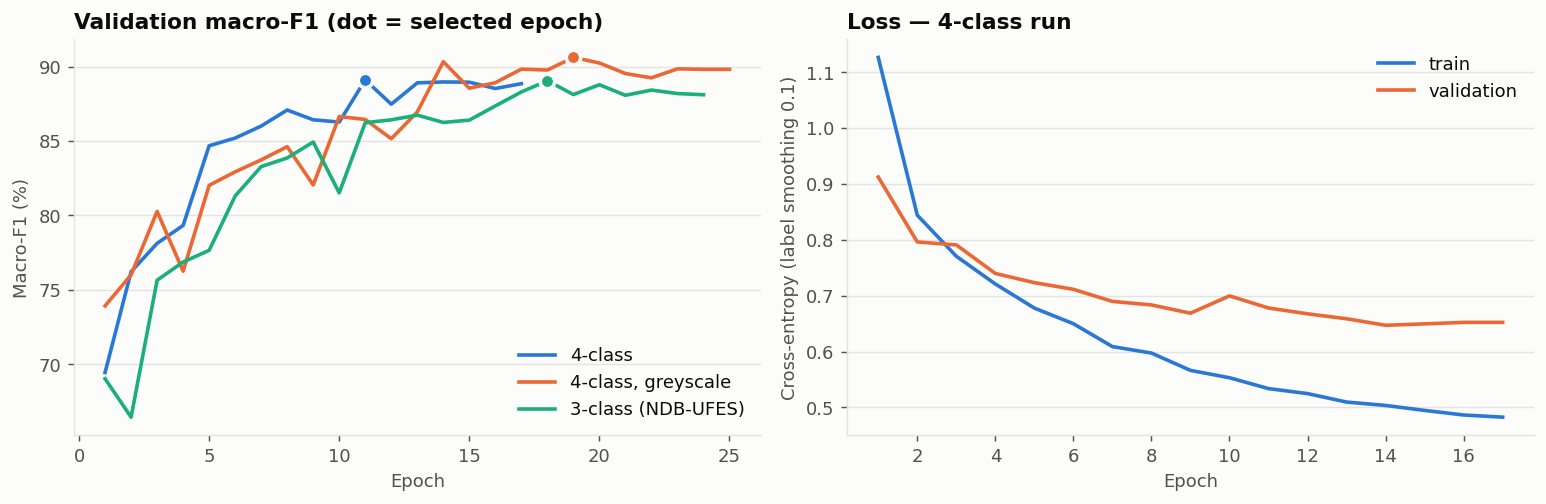
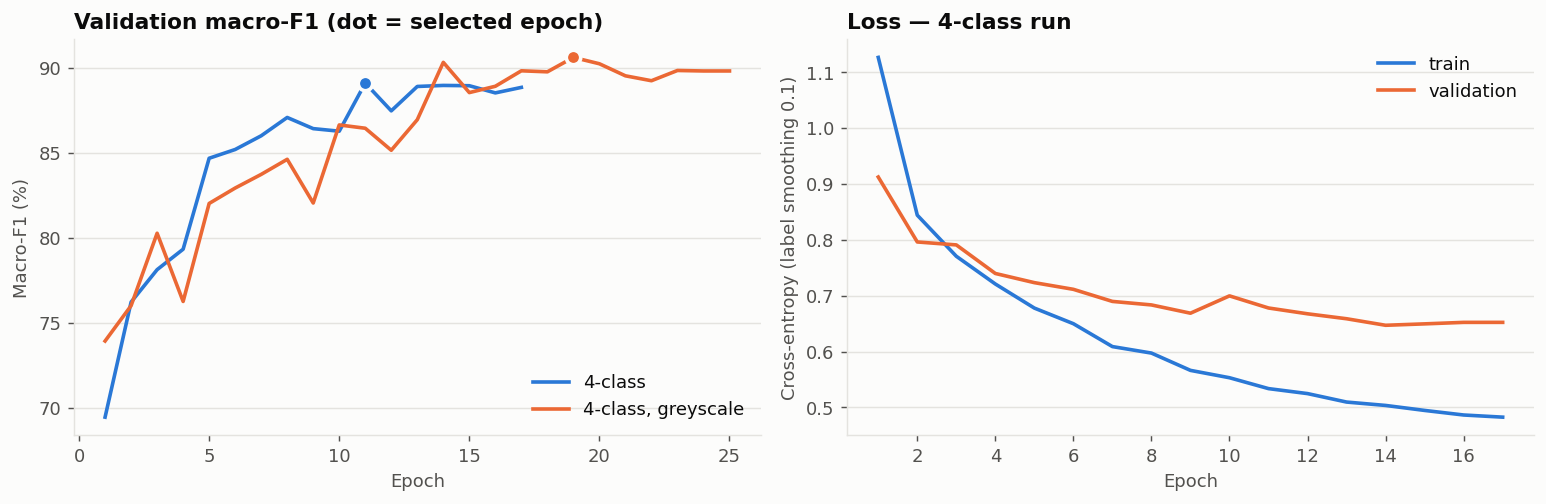
Make the 4-class model the headline result
- README: 4-class model as the headline (92.2 +/- 1.1% balanced
  accuracy); comparison with published work uses its score on the
  three NDB-UFES classes (90.0 +/- 1.7% vs 91.9%); separate 3-class
  model removed from the README
- Figures: 4-class confusion matrix only, training curves and
  multi-seed chart without the 3-class model
- docs/guide_presentation.md and CLAUDE.md updated to match

diff --git a/scripts/reporting/make_readme_figures.py b/scripts/reporting/make_readme_figures.py
@@ -228,7 +228,6 @@ def fig_segmentation_coverage():
 RUN_LABELS = {
     "convnext_tiny_4class_224px": "4-class",
     "convnext_tiny_4class_gray_224px": "4-class, greyscale",
-    "convnext_tiny_3class_224px": "3-class (NDB-UFES)",
 }
 
 
@@ -288,10 +287,8 @@ def draw_confusion(ax, run, classes, title):
 
 
 def fig_confusion_matrix():
-    fig, axes = plt.subplots(1, 2, figsize=(13, 5.6), gridspec_kw={"width_ratios": [3, 4]})
-    draw_confusion(axes[0], "convnext_tiny_3class_224px", CLASSES_4[:3], "3-class, NDB-UFES (primary)")
-    draw_confusion(axes[1], MAIN_RUN, CLASSES_4, "4-class")
-    fig.suptitle("Test confusion matrices", fontweight="bold", x=0.01, ha="left")
+    fig, ax = plt.subplots(figsize=(7.2, 5.8))
+    draw_confusion(ax, MAIN_RUN, CLASSES_4, "Test confusion matrix, 4-class")
     plt.tight_layout()
     save(fig, "confusion_matrix.png")
 
@@ -326,7 +323,7 @@ def fig_per_class_f1():
 # 6b. CLASSIFICATION: MULTI-SEED RESULTS
 # ============================================================
 
-MAIA_2024_BALANCED_ACC = 91.91  # DenseNet-121, NDB-UFES 3-class, same official folds
+MAIA_2024_BALANCED_ACC = 91.91  # DenseNet-121 on the 3 NDB-UFES classes, same official folds
 
 
 def fig_multiseed():
@@ -337,13 +334,12 @@ def fig_multiseed():
 
     per_run = pd.read_csv(per_run_csv)
     rows = [
-        ("convnext_tiny_3class_224px", "balanced_accuracy", "3-class, NDB-UFES (primary)"),
         ("convnext_tiny_4class_224px", "balanced_accuracy", "4-class"),
-        ("convnext_tiny_4class_224px", "ndb_balanced_accuracy", "4-class, NDB-UFES patches only"),
+        ("convnext_tiny_4class_224px", "ndb_balanced_accuracy", "4-class, NDB-UFES classes only"),
         ("convnext_tiny_4class_gray_224px", "balanced_accuracy", "4-class, greyscale"),
     ]
 
-    fig, ax = plt.subplots(figsize=(9, 3.8))
+    fig, ax = plt.subplots(figsize=(9, 3.2))
     y = np.arange(len(rows))[::-1]
 
     for yi, (setting, metric, _) in zip(y, rows):
@@ -359,14 +355,14 @@ def fig_multiseed():
                 bbox=dict(boxstyle="round,pad=0.15", facecolor=SURFACE, edgecolor="none"))
 
     ax.axvline(MAIA_2024_BALANCED_ACC, color=SERIES[1], linewidth=1.5, linestyle="--")
-    ax.text(MAIA_2024_BALANCED_ACC + 0.1, y.max() + 0.42, "Maia et al. 2024, DenseNet-121, 3-class (91.9%)",
-            fontsize=8, color=TEXT_SECONDARY)
+    ax.text(MAIA_2024_BALANCED_ACC - 0.1, y.max() + 0.42, "Published: DenseNet-121 on the NDB-UFES classes (91.9%)",
+            fontsize=8, color=TEXT_SECONDARY, ha="right")
 
     ax.set_yticks(y, [label for _, _, label in rows])
     ax.set_ylim(y.min() - 0.8, y.max() + 0.7)
     ax.set_xlim(86, 96)
     ax.set_xlabel("Test balanced accuracy (%)")
-    ax.set_title("Balanced accuracy over 3 seeds", loc="left")
+    ax.set_title("4-class model: balanced accuracy over 3 seeds", loc="left")
     ax.legend(loc="lower right")
     clean_axes(ax, grid_axis="x")
     save(fig, "multiseed_results.png")

diff --git a/docs/guide_presentation.md b/docs/guide_presentation.md
@@ -6,7 +6,7 @@ A simple walkthrough to use while scrolling through the [README](../README.md). 
 
 ## 1-minute summary (say this first)
 
-"Our project classifies microscope images of oral tissue into four groups: **cancer (OSCC)**, **pre-cancer (leukoplakia with dysplasia)**, **leukoplakia without dysplasia**, and **normal tissue**. Our plan was two steps: first find the lesion with a segmentation model (**MedSAM**), then classify it with **ConvNeXt-Tiny**. We built and tested both. On the three classes from the main dataset, our classifier reaches **about 90% balanced accuracy (89.7 ± 1.4%, averaged over 3 training runs)**, close to the best published result (91.9%). We also discovered that the Normal class, which comes from a different dataset, can be recognised from image-level differences between the two datasets instead of tissue. We investigated and documented this carefully."
+"Our project classifies microscope images of oral tissue into four groups: **cancer (OSCC)**, **pre-cancer (leukoplakia with dysplasia)**, **leukoplakia without dysplasia**, and **normal tissue**. Our plan was two steps: first find the lesion with a segmentation model (**MedSAM**), then classify it with **ConvNeXt-Tiny**. We built and tested both. Our 4-class classifier reaches **about 92% balanced accuracy (92.2 ± 1.1%, averaged over 3 training runs)**. On the three classes that published papers use, it scores 90.0%, close to the best published result (91.9%). We also discovered that the Normal class, which comes from a different dataset, can be recognised from image-level differences between the two datasets instead of tissue. We investigated and documented this carefully."
 
 ---
 
@@ -15,10 +15,10 @@ A simple walkthrough to use while scrolling through the [README](../README.md). 
 ### 1. Key results (top of README)
 **Show:** the results table.
 **Say:**
-- "Our main result is the **3-class model: 89.7% ± 1.4% balanced accuracy**. Balanced accuracy means it's about 90% right *for each class on average*, which is fairer than plain accuracy when some classes have fewer images."
-- "The ± is because we trained each model **3 times with different random starting points (seeds)** and took the average. Single runs varied by up to 2.5 points, so the average is the reliable number."
-- "The best published result on the same dataset and the same official split is 91.9%, so we're at the published level."
-- "We also have a 4-class model including Normal (92.2% ± 1.1%, with Normal at 99%). But we show that Normal's 99% comes from differences between the two datasets, not from the tissue. That's why the 3-class result is our main one."
+- "Our main result is the **4-class model: 92.2% ± 1.1% balanced accuracy**. Balanced accuracy means it's about 92% right *for each class on average*, which is fairer than plain accuracy when some classes have fewer images."
+- "The ± is because we trained the model **3 times with different random starting points (seeds)** and took the average. Single runs varied by about 2 points, so the average is the reliable number."
+- "Published papers only use the three NDB-UFES classes, because Normal is our addition. On those three classes our model scores 90.0%, and the best published result on the same official split is 91.9%. So we're at the published level."
+- "Normal itself reaches 99%, but we show that this comes partly from differences between the two datasets, not only from the tissue. We explain that in the Grad-CAM part."
 - "Segmentation didn't help on our data. I'll explain why."
 
 ### 2. Pipeline (flowchart)
@@ -53,10 +53,9 @@ A simple walkthrough to use while scrolling through the [README](../README.md). 
 **Show:** the results table, confusion matrix and training curves.
 **Say:**
 - "We trained ConvNeXt-Tiny, a modern image model, starting from ImageNet-pretrained weights."
-- "We trained three versions:
+- "We trained two versions, each 3 times:
   - **4-class**: our main model;
-  - **3-class**: without Normal, to compare directly with papers;
-  - **greyscale**: to check whether colour was being used as a shortcut."
+  - **greyscale**: the same model without colour, to check whether colour was being used as a shortcut."
 - **Confusion matrix:** "Most mistakes are between *neighbouring* stages, cancer vs pre-cancer or pre-cancer vs no dysplasia. It never confuses cancer with the 'no dysplasia' class. Even pathologists find these neighbouring stages hard."
 
 ### 7. Explainability (Grad-CAM): the important discovery
@@ -68,7 +67,7 @@ A simple walkthrough to use while scrolling through the [README](../README.md). 
 - "So the model was partly recognising *'this is a sharp image'* instead of *'this is normal tissue'*. That's called a **shortcut**."
 - "**Our fix:** we blurred the Normal images to match. Now sharpness can't tell them apart anymore (from 95% down to about 52%, which is chance level)."
 - "**Then we retrained and checked again:** Normal stayed at 99%, and the heatmaps still looked at the edges. So the model still uses other image-wide differences, mainly that the Normal images are brighter."
-- "**Our conclusion:** when you combine two datasets, the model can learn *which dataset* an image came from. Colour normalisation, tiling and blurring reduce this but can't fully remove it. That's why we treat the **3-class result** as our main result. Fixing it properly would need normal tissue from the same hospital as the other classes."
+- "**Our conclusion:** when you combine two datasets, the model can learn *which dataset* an image came from. Colour normalisation, tiling and blurring reduce this but can't fully remove it. That's why we report Normal's 99% with this caveat, and compare with published work only on the other three classes. Fixing it properly would need normal tissue from the same hospital as the other classes."
 
 ### 8. Limitations (be upfront; guides appreciate this)
 **Say:**
@@ -91,7 +90,7 @@ It opens in the browser at `http://localhost:8501`. The first start takes about 
 **Show:**
 1. **Try a test image** → pick an **OSCC** example: correct prediction, a confidence of about 90%+, and a heatmap on the tissue.
 2. Pick a **"without dysplasia"** example: the hardest class. If it's wrong, say "this is the class even pathologists find hardest".
-3. Switch the model in the sidebar to **3-class**: our main benchmark model.
+3. Pick a **Normal** example: the heatmap often sits at the tile's top edge, which is the shortcut we found.
 
 **Say:**
 - "The tool applies exactly the same steps as training: tiling, stain normalisation, then the model. We checked that it gives identical results to our test evaluation."
@@ -117,8 +116,8 @@ It opens in the browser at `http://localhost:8501`. The first start takes about 
 
 - **"Why didn't segmentation work?"** The images are already cut from inside the lesion, so the whole image is the lesion. MedSAM had nothing smaller to isolate.
 - **"Then why keep MedSAM in the project?"** We tested the hypothesis properly on all 6,626 images. A tested negative result is a valid research finding. Grad-CAM now does the "where is the problem" part.
-- **"Is 90% good?"** Yes. It's close to the best published result on this dataset (91.9%), about 2 points below, with the same official split. And ours is an average over 3 runs, not a single best run.
-- **"What does ± 1.4% mean?"** It's how much the result changes between training runs (standard deviation over 3 seeds). It shows the result is stable.
-- **"Why is your main result 3-class and not 4-class?"** The Normal images come from another dataset, and we proved the model partly recognises *which dataset* an image is from. The 3 main classes all come from one dataset, so that result is fair.
+- **"Is 92% good?"** Yes. On the three classes that published papers use, we score 90.0%, close to the best published result (91.9%) with the same official split. And ours is an average over 3 runs, not a single best run.
+- **"What does ± 1.1% mean?"** It's how much the result changes between training runs (standard deviation over 3 seeds). It shows the result is stable.
+- **"Why compare on three classes and not four?"** Published papers on this dataset only have those three classes; Normal is our addition. Those three also all come from one dataset, so the Normal shortcut doesn't affect that comparison.
 - **"How do you know the model isn't cheating?"** We checked with a colour test, a greyscale model, Grad-CAM heatmaps, and a sharpness test. That's how we found the Normal shortcut. We fixed sharpness and re-checked, and documented what remains.
 - **"Why Kaggle?"** Our laptop has no GPU. Kaggle gives a free GPU, and the code runs there directly from our GitHub repo.

diff --git a/README.md b/README.md
@@ -15,8 +15,8 @@ Deep-learning pipeline for **four-class classification of oral histopathology pa
 
 | | Result |
 |---|---|
-| **3-class ConvNeXt-Tiny** (primary; NDB-UFES, test n = 627) | **89.7 ± 1.4% balanced accuracy · 89.6 ± 0.9% macro-F1 · 0.976 macro AUC** (published DenseNet-121 benchmark on the same folds: 91.9%) |
-| 4-class ConvNeXt-Tiny (+ Normal, test n = 1,049) | 92.2 ± 1.1% balanced accuracy · 92.0 ± 0.8% macro-F1 · Normal F1 99.3% (cross-dataset, see below) |
+| **4-class ConvNeXt-Tiny** (test, n = 1,049) | **92.2 ± 1.1% balanced accuracy · 92.0 ± 0.8% macro-F1 · 0.985 macro AUC** |
+| Same model, NDB-UFES classes only (OSCC, with / without dysplasia) | 90.0 ± 1.7% balanced accuracy (published DenseNet-121 benchmark on the same folds: 91.9%) |
 | **MedSAM segmentation** (all 6,626 patches) | Masks cover a median **95–98%** of each patch, so the ROI is the whole patch |
 | **Shortcut analysis** | The Normal class is separable by image-level properties of its source dataset (sharpness, brightness, contrast). Sharpness was removed by calibrated blur; Grad-CAM still shows border-focused, image-level evidence for Normal |
 
@@ -131,24 +131,23 @@ A meaningful segmentation target for this data would be the **epithelium**, wher
 
 ### Results (test set)
 
-All models are trained on the **sharpness-matched** data (see [Explainability](#explainability-grad-cam)). Each setting was trained with **3 random seeds** (`notebooks/convnext_multiseed_kaggle.ipynb`); values are **mean ± SD**.
+All models are trained on the **sharpness-matched** data (see [Explainability](#explainability-grad-cam)). Each model was trained with **3 random seeds** (`notebooks/convnext_multiseed_kaggle.ipynb`); values are **mean ± SD**.
 
-| Setting | Balanced acc. | Macro-F1 | Accuracy | Macro AUC | Normal F1 | NDB-UFES patches only (bal. acc.) |
+| Setting | Balanced acc. | Macro-F1 | Accuracy | Macro AUC | Normal F1 | NDB-UFES classes only (bal. acc.) |
 |---|---|---|---|---|---|---|
-| **3-class, NDB-UFES (primary)** | **89.7 ± 1.4%** | **89.6 ± 0.9%** | 90.2 ± 0.8% | 0.976 ± 0.003 | — | — |
-| 4-class | 92.2 ± 1.1% | 92.0 ± 0.8% | 93.8 ± 0.5% | 0.985 ± 0.001 | 99.3 ± 0.5% | 90.0 ± 1.7% |
+| **4-class** | **92.2 ± 1.1%** | **92.0 ± 0.8%** | 93.8 ± 0.5% | 0.985 ± 0.001 | 99.3 ± 0.5% | 90.0 ± 1.7% |
 | 4-class, greyscale | 90.5 ± 1.4% | 90.1 ± 1.6% | 92.0 ± 1.1% | 0.983 ± 0.001 | 98.0 ± 0.1% | 88.6 ± 1.9% |
 
 ![Multi-seed results](docs/images/multiseed_results.png)
 
-**Why 3-class is the primary result.** All three NDB-UFES classes come from the same source, so the cross-dataset shortcut described below cannot apply. This makes it the fair comparison with published work: **89.7 ± 1.4%** balanced accuracy vs **91.9%** for DenseNet-121 in Maia et al. (2024), on the same official folds. That is comparable to, and about 2 points below, the published benchmark.
+**Comparison with published work.** Published results on this dataset cover only the three NDB-UFES classes (Normal is our addition from a second dataset). On those classes, the 4-class model reaches **90.0 ± 1.7%** balanced accuracy, against **91.9%** for DenseNet-121 in Maia et al. (2024) on the same official folds: comparable, about 2 points lower. These three classes all come from one source, so the cross-dataset shortcut described below does not affect this number.
 
 **Reading the table**
-- **Adding Normal does not hurt the other classes.** On the NDB-UFES test patches, the 4-class model reaches 90.0 ± 1.7%, the same as the 3-class model within the spread. Its higher overall score comes mostly from the easy, cross-dataset Normal class.
+- **Normal lifts the overall score.** The 4-class score (92.2%) is higher than the score on the NDB-UFES classes alone (90.0%) mainly because the cross-dataset Normal class is easy (~99% F1).
 - **Greyscale input** costs about 1.7 points, within about one SD of the colour model. Colour helps a little but is not the main signal. Normal stays at ~98% F1 without colour.
-- **Seed variation matters.** Single runs of the same setting ranged over up to ~2.5 points (3-class: 88.0–90.5%). An earlier single 4-class run of 88.6% turned out to be a low outlier against the 3-seed mean of 92.2%.
+- **Seed variation matters.** Single runs of the same model ranged over up to ~2 points (4-class: 90.9–93.0%), and an earlier single 4-class run of 88.6% was a low outlier against the 3-seed mean of 92.2%.
 
-The confusion matrices, training curves and per-class F1 below come from one representative run per setting (seed 42).
+The confusion matrix, training curves and per-class F1 below come from one representative run (seed 42).
 
 ![Confusion matrix](docs/images/confusion_matrix.png)
 
@@ -190,7 +189,7 @@ Normal tiles are about 5× sharper. This global property explains both the borde
 **Conclusion.**
 - The high Normal score cannot be read as evidence that the model recognises normal tissue.
 - Combining two datasets creates source-level cues that colour normalisation, tiling and sharpness matching do not fully remove.
-- The **3-class NDB-UFES result is the primary benchmark**. The 4-class result is reported with this documented limitation.
+- The 4-class result is reported with this documented limitation; its score on the three NDB-UFES classes (90.0 ± 1.7%) is unaffected by it.
 
 ---
 
@@ -249,7 +248,7 @@ oral-cancer-detection/
 ├── notebooks/                      # Kaggle GPU notebooks
 │   ├── medsam_segmentation_kaggle.ipynb
 │   ├── convnext_training_kaggle.ipynb
-│   └── convnext_multiseed_kaggle.ipynb   # 3 settings × 3 seeds
+│   └── convnext_multiseed_kaggle.ipynb   # multi-seed runs (3 seeds)
 │
 └── docs/
     ├── guide_presentation.md       # Plain-language walkthrough for presenting the project
@@ -328,7 +327,7 @@ On test patches, the tool reproduces the evaluation predictions exactly (probabi
 
 ```bash
 # Command line: prints probabilities, saves overlay + JSON to outputs/predictions/
-python -m scripts.inference.predict path/to/image.png --model 4class   # or --model 3class
+python -m scripts.inference.predict path/to/image.png
 ```
 
 ![Prediction example](docs/images/prediction_example.jpg)
@@ -345,10 +344,10 @@ python -m scripts.inference.predict path/to/image.png --model 4class   # or --mo
 | Dataset construction, official splits, tiling, stain normalisation | ✅ Done |
 | Colour-bias analysis | ✅ Done |
 | MedSAM segmentation (full dataset) | ✅ Done (no localisation benefit on these patches) |
-| ConvNeXt-Tiny 4-class / 3-class / greyscale | ✅ Done |
+| ConvNeXt-Tiny 4-class + greyscale check | ✅ Done |
 | Grad-CAM + border-focus check | ✅ Done |
 | Identify the Normal shortcut (sharpness) and calibrate a blur fix | ✅ Done |
-| Retrain on sharpness-matched data + Grad-CAM re-check | ✅ Done (Normal still image-level; 3-class is primary) |
+| Retrain on sharpness-matched data + Grad-CAM re-check | ✅ Done (Normal still image-level; documented) |
 | Multi-seed runs (3 seeds, mean ± SD) | ✅ Done |
 | Prediction tool (command line) | ✅ Done |
 | Final report / paper write-up | ⏳ Next |

diff --git a/CLAUDE.md b/CLAUDE.md
@@ -62,7 +62,7 @@ Pipeline order:
   - **Confirmed cause: sharpness.** Laplacian variance at 224px alone separates Normal with AUC 0.946; Normal is about 5x sharper. Brightness (0.83) and contrast (0.85) also differ.
   - **Fix:** `preprocess.py` blurs Normal tiles (`TILE_BLUR_SIGMA = 2.5`, calibrated with `check_sharpness --calibrate-blur`), which brings the sharpness AUC to about 0.50. Training adds random blur.
   - **After retraining on sharpness-matched data:** Normal F1 is still 98.9% (98.3% in greyscale), and its Grad-CAM border share only dropped from about 65% to about 60%. The model still uses image-level source cues, most likely brightness (Normal ~155 vs ~141) and contrast. The top rows of Normal tiles are not brighter in the pixels, so the edge focus is a representation effect, not an artefact.
-  - Decision (user, option A): do not chase this further. The 3-class NDB-UFES result is the primary benchmark; 4-class is reported with the limitation.
+  - Decision (user): do not chase this further. The **4-class model is the headline** (92.2 ± 1.1% balanced accuracy). The comparison with published work uses the 4-class model's score on the three NDB-UFES classes (90.0 ± 1.7% vs 91.9%). **The README must not mention the separate 3-class model**, although its runs and code still exist.
   - Pre-fix runs are kept locally in `runs_before_blur/` (git-ignored) for before/after figures.
 - **NDB-UFES folds are patch-level**, not patient-level, so results are optimistic. This includes published benchmarks; the main one is Maia et al. 2024 with DenseNet-121 at 91.9% balanced accuracy.
 - **SAM/MedSAM at 1024px uses about 0.8 GB of GPU memory per image** in one attention tensor. Keep the batch size at 2 or less and use fp16 on a T4.
